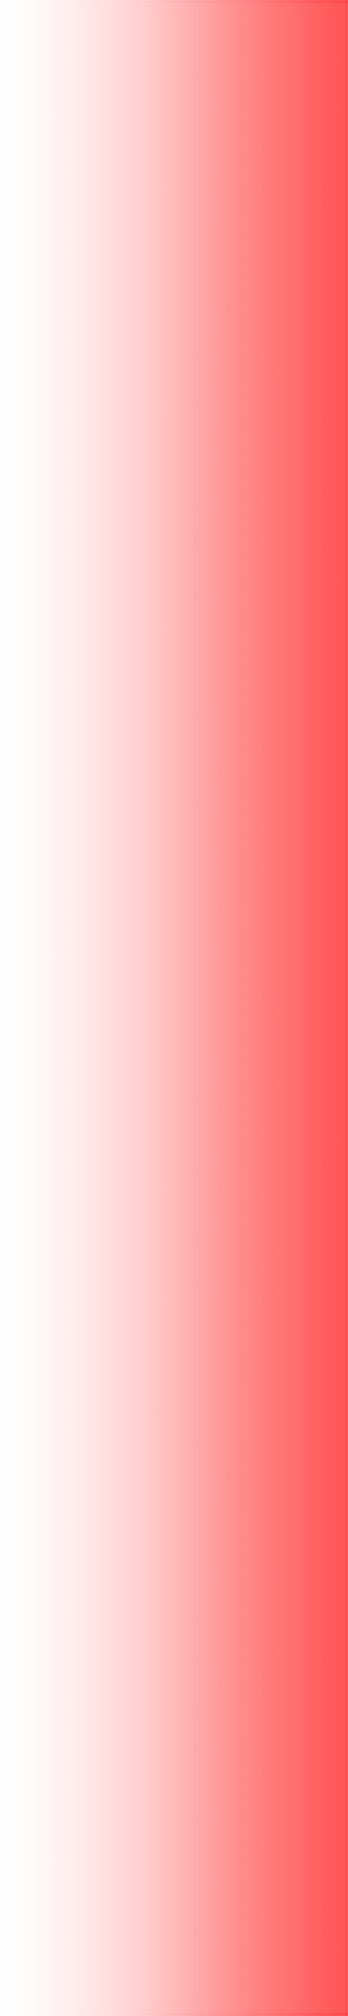
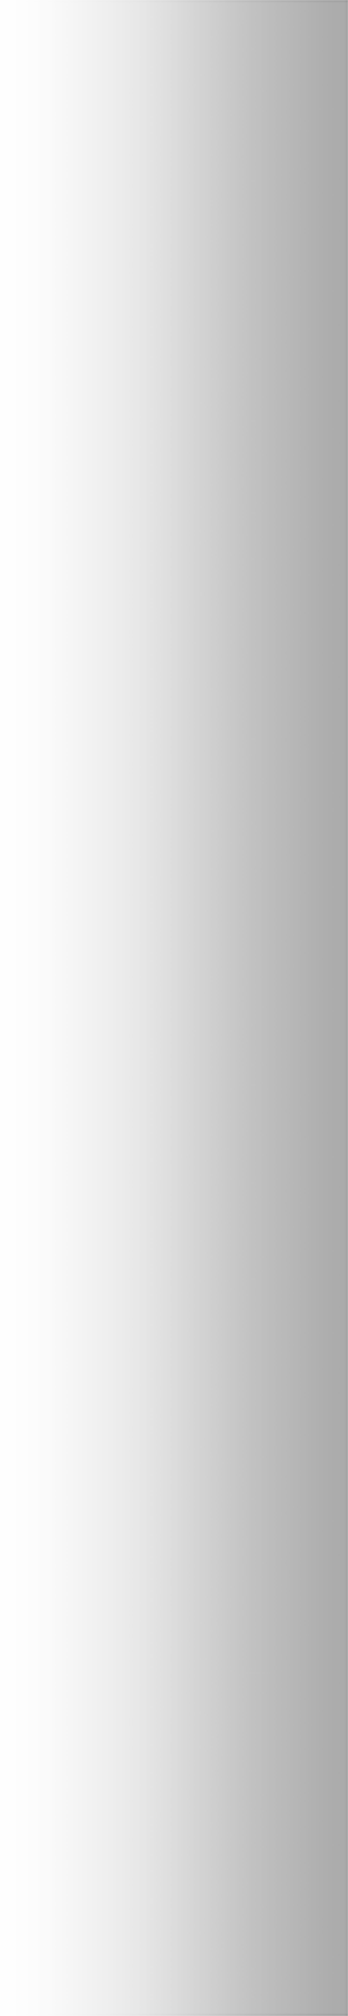
Новости: переход в ч/б и полупрозрачность при скролле.

diff --git a/NikolaLenivets/UI/NLItemsListController.m b/NikolaLenivets/UI/NLItemsListController.m
@@ -201,7 +201,8 @@
     if ([scrollView isEqual:self.leftTable]) {
         self.rightShadowView.hidden = NO;
         [UIView animateWithDuration:0.1 animations:^{
-            self.rightShadowView.alpha = 1.0;
+            self.rightShadowView.alpha = 0.8;
+            self.rightTable.alpha = 0.8;
         }];
         [self.rightTable setUserInteractionEnabled:NO];
     }
@@ -209,7 +210,8 @@
     if ([scrollView isEqual:self.rightTable]) {
         self.leftShadowView.hidden = NO;
         [UIView animateWithDuration:0.1 animations:^{
-            self.leftShadowView.alpha = 1.0;
+            self.leftShadowView.alpha = 0.8;
+            self.leftTable.alpha = 0.8;
         }];
         [self.leftTable setUserInteractionEnabled:NO];
     }
@@ -221,6 +223,7 @@
     if ([scrollView isEqual:self.leftTable]) {
         [UIView animateWithDuration:0.1 animations:^{
             self.rightShadowView.alpha = 0.0;
+            self.rightTable.alpha = 1.0;
         } completion:^(BOOL finished) {
             self.rightShadowView.hidden = YES;
         }];
@@ -229,6 +232,7 @@
     if ([scrollView isEqual:self.rightTable]) {
         [UIView animateWithDuration:0.1 animations:^{
             self.leftShadowView.alpha = 0.0;
+            self.leftTable.alpha = 1.0;
         } completion:^(BOOL finished) {
             self.leftShadowView.hidden = YES;
         }];
